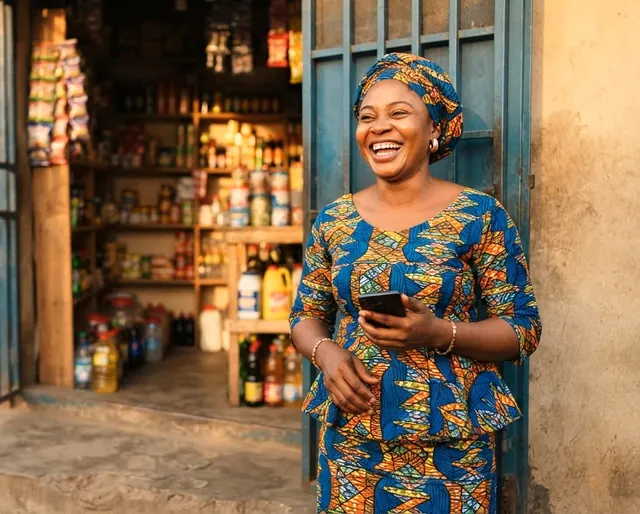
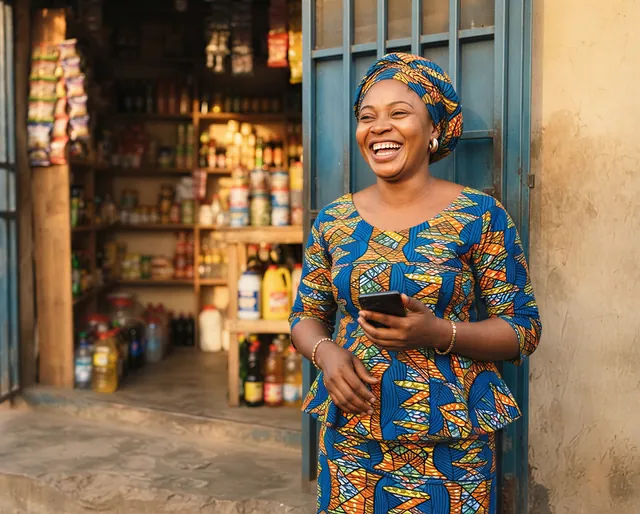
Hero photo from the 2752x1536 export: grade reproduced in _tools/hero.py (left field to 34%, fall-off at the doorway, soft far-left street, slight warmth/contrast), exports at 1376/1920/2752 WebP+JPEG and phone crops at 640/956/1280; cards now sit inside the photo on desktop

diff --git a/_tools/hero.py b/_tools/hero.py
@@ -1,0 +1,89 @@
+#!/usr/bin/env python3
+"""Home hero photo: grade and export from the 2752x1536 source (_src/hero-trader-2752.png).
+
+The grade is done here, in the asset, never in CSS (no gradients/overlays in the stylesheet):
+  * the left ~40% of the frame (street, danfo, passers-by) is darkened to 34% brightness with a
+    smooth fall-off that ends at the shop doorway (~63% of the width), so the white headline sits
+    on a quiet dark field while the trader stays untouched;
+  * the far-left street is softened a touch so it does not compete with the headline;
+  * a slight warmth (R +2%, G -1%, B -5%) and a small contrast lift over the whole frame.
+Exports (assets/img): hero-trader-{1376,1920,2752}.{webp,jpg} for >=1024px viewports, and the
+ungraded trader crop for phones, hero-trader-m-{640,956,1280}.{webp,jpg} (crop x 840..2752 of the
+source, i.e. the same framing as the earlier 420..1376 crop of the 1376px master).
+
+    python3 _tools/hero.py
+"""
+import os, subprocess
+from PIL import Image, ImageEnhance, ImageFilter
+
+ROOT = os.path.dirname(os.path.dirname(os.path.abspath(__file__)))
+SRC = os.path.join(ROOT, "_src", "hero-trader-2752.png")
+OUT = os.path.join(ROOT, "assets", "img")
+
+DARK = 0.34          # brightness of the darkened field
+RAMP = (0.40, 0.63)  # fall-off from full dark to untouched, as fractions of the width
+SOFT = (0.30, 0.45)  # soften fully up to 30% of the width, fading out by 45%
+WARM = (1.02, 0.99, 0.95)
+CONTRAST = 1.04
+
+
+def smoothstep(a, b, x):
+    t = min(1.0, max(0.0, (x - a) / (b - a)))
+    return t * t * (3 - 2 * t)
+
+
+def hmask(w, h, a, b, invert=False):
+    """L mask: 255 left of a, 0 right of b, smooth in between (or the reverse)."""
+    row = []
+    for x in range(w):
+        v = 1 - smoothstep(a * w, b * w, x)
+        row.append(int(round((1 - v if invert else v) * 255)))
+    m = Image.new("L", (w, 1))
+    m.putdata(row)
+    return m.resize((w, h))
+
+
+def grade(im):
+    w, h = im.size
+    # 1. soften the far-left street
+    soft = im.filter(ImageFilter.GaussianBlur(radius=w / 1376 * 1.6))
+    im = Image.composite(soft, im, hmask(w, h, *SOFT))
+    # 2. darken the left field with a smooth fall-off ending at the doorway
+    dark = ImageEnhance.Brightness(im).enhance(DARK)
+    im = Image.composite(dark, im, hmask(w, h, *RAMP))
+    # 3. warmth + a small contrast lift
+    r, g, b = im.split()
+    r = r.point(lambda v: min(255, int(v * WARM[0] + 0.5)))
+    g = g.point(lambda v: min(255, int(v * WARM[1] + 0.5)))
+    b = b.point(lambda v: min(255, int(v * WARM[2] + 0.5)))
+    im = Image.merge("RGB", (r, g, b))
+    return ImageEnhance.Contrast(im).enhance(CONTRAST)
+
+
+def export(im, name, widths, q_jpg=82, q_webp=80):
+    for w in widths:
+        h = round(im.height * w / im.width)
+        out = im if w == im.width else im.resize((w, h), Image.LANCZOS)
+        jpg = os.path.join(OUT, f"{name}-{w}.jpg")
+        out.save(jpg, "JPEG", quality=q_jpg, optimize=True, progressive=True, subsampling="4:2:0")
+        webp = os.path.join(OUT, f"{name}-{w}.webp")
+        out.save(webp, "WEBP", quality=q_webp, method=6)
+        print(f"{name}-{w}: {w}x{h}  jpg {os.path.getsize(jpg)//1024} KB  webp {os.path.getsize(webp)//1024} KB")
+
+
+def main():
+    src = Image.open(SRC).convert("RGB")
+    assert src.size == (2752, 1536), src.size
+    graded = grade(src)
+    export(graded, "hero-trader", [2752, 1920, 1376])
+    # phones: ungraded trader crop, same framing as before (x 840..2752 = 1912x1536)
+    crop = src.crop((840, 0, 2752, 1536))
+    export(crop, "hero-trader-m", [1280, 956, 640])
+    # sharpness check: edge energy of the 1920 export vs a 1920 downscale of the raw source
+    a = graded.resize((1920, 1072), Image.LANCZOS).convert("L").filter(ImageFilter.FIND_EDGES)
+    from PIL import ImageStat
+    print("1920 export edge energy (higher = sharper):", round(ImageStat.Stat(a).mean[0], 2))
+
+
+if __name__ == "__main__":
+    main()
